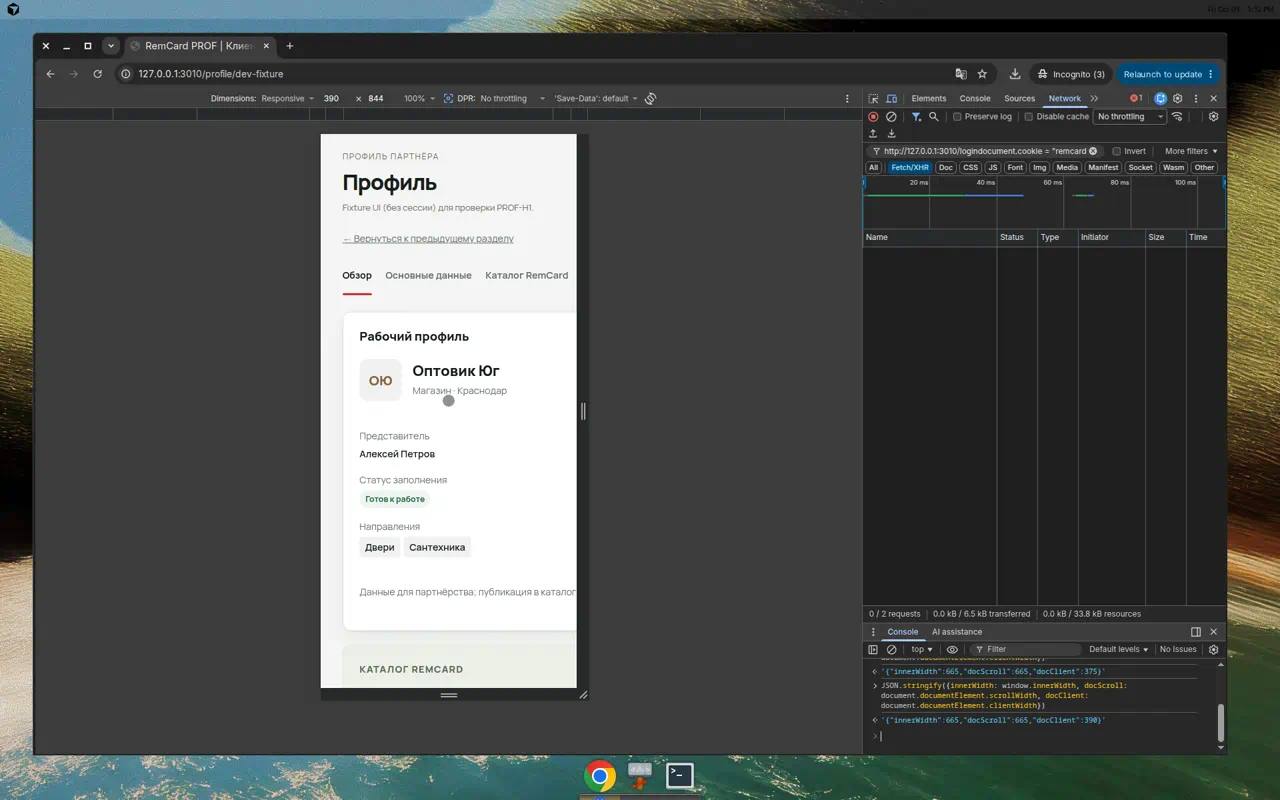
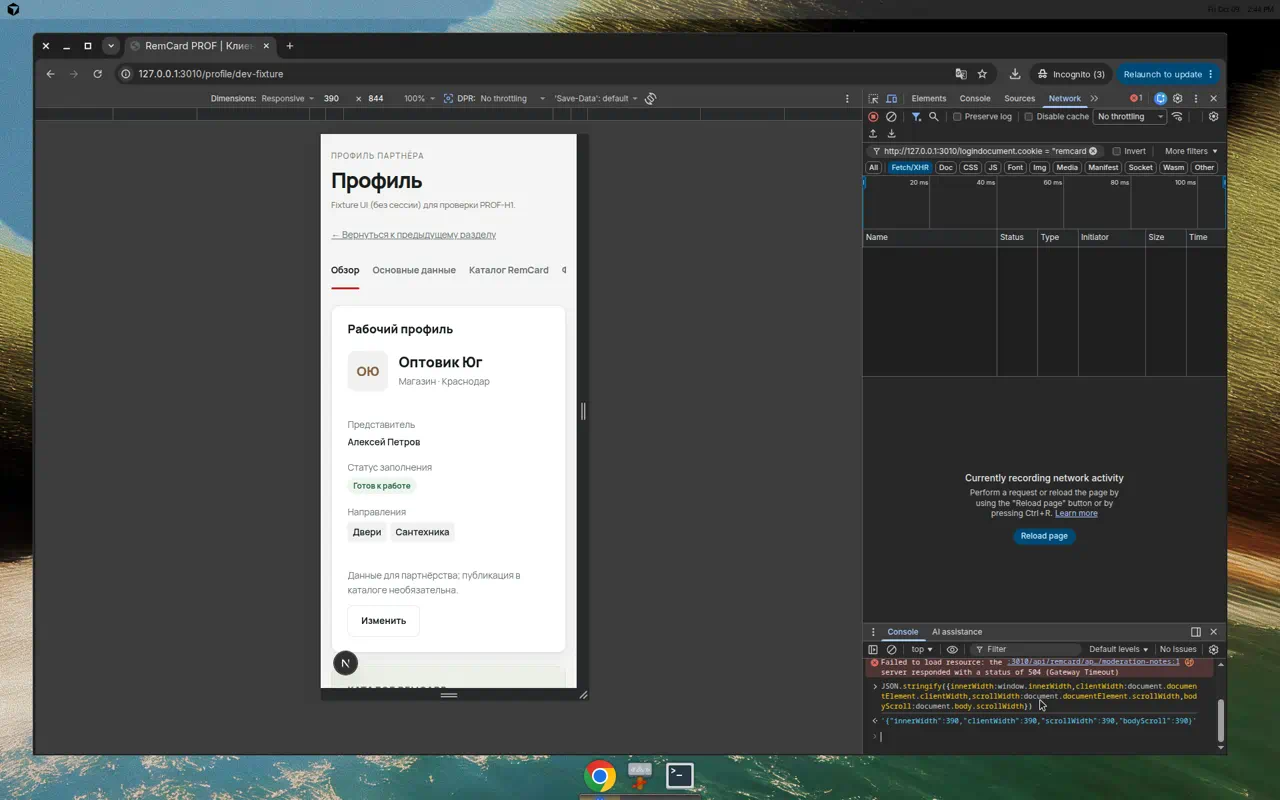
fix(prof-h1): constrain profile tab strip and grids on mobile 390
Use minmax(0,1fr) and min-width:0 on shell/nav/tabStrip so page
scrollWidth matches viewport; refresh mobile/desktop screenshots.

diff --git a/src/components/profile/ProfileEditor.module.css b/src/components/profile/ProfileEditor.module.css
@@ -1,7 +1,15 @@
 .shell {
   display: grid;
+  grid-template-columns: minmax(0, 1fr);
   gap: var(--space-6);
   min-width: 0;
+  width: 100%;
+  max-width: 100%;
+}
+
+.sectionNav {
+  min-width: 0;
+  width: 100%;
   max-width: 100%;
 }
 
@@ -10,11 +18,21 @@
   gap: var(--space-6);
   border-bottom: 1px solid var(--border);
   overflow-x: auto;
+  overflow-y: hidden;
   scrollbar-width: none;
   margin: 0;
   padding: 0;
   list-style: none;
+  width: 100%;
+  min-width: 0;
   max-width: 100%;
+  box-sizing: border-box;
+  -webkit-overflow-scrolling: touch;
+}
+
+.tabStrip > li {
+  flex: 0 0 auto;
+  min-width: 0;
 }
 
 .tabStrip::-webkit-scrollbar {
@@ -56,7 +74,7 @@
 
 .grid {
   display: grid;
-  grid-template-columns: minmax(0, 1.3fr) minmax(260px, 0.8fr);
+  grid-template-columns: minmax(0, 1.3fr) minmax(0, 0.8fr);
   gap: var(--space-6);
   align-items: start;
   min-width: 0;
@@ -144,8 +162,8 @@
 @media (max-width: 650px) {
   .tabStrip {
     gap: var(--space-5);
-    margin-inline: calc(-1 * var(--space-1));
-    padding-inline: var(--space-1);
+    padding-inline: 0;
+    margin-inline: 0;
   }
 }
 
@@ -243,7 +261,7 @@
 
 @media (max-width: 900px) {
   .grid {
-    grid-template-columns: 1fr;
+    grid-template-columns: minmax(0, 1fr);
   }
 
   .teamCheckRow {

diff --git a/src/app/profile/dev-fixture/page.tsx b/src/app/profile/dev-fixture/page.tsx
@@ -72,7 +72,16 @@ export default async function ProfileDevFixturePage(props: {
   });
 
   return (
-    <main style={{ padding: "24px 32px", maxWidth: 1310, margin: "0 auto" }}>
+    <main
+      style={{
+        boxSizing: "border-box",
+        width: "100%",
+        maxWidth: 1310,
+        minWidth: 0,
+        margin: "0 auto",
+        padding: "24px clamp(16px, 4vw, 32px)",
+      }}
+    >
       <header style={{ marginBottom: 24 }}>
         <p style={{ fontSize: 12, letterSpacing: "0.12em", textTransform: "uppercase", color: "#6c706a" }}>
           Профиль партнёра

diff --git a/src/components/profile/ProfileOverviewSection.module.css b/src/components/profile/ProfileOverviewSection.module.css
@@ -1,8 +1,10 @@
 .grid {
   display: grid;
-  grid-template-columns: minmax(0, 1.52fr) minmax(260px, 1fr);
+  grid-template-columns: minmax(0, 1.52fr) minmax(0, 1fr);
   gap: var(--space-5);
   min-width: 0;
+  width: 100%;
+  max-width: 100%;
 }
 
 .identityPanel {
@@ -245,7 +247,7 @@
 
 @media (max-width: 900px) {
   .grid {
-    grid-template-columns: 1fr;
+    grid-template-columns: minmax(0, 1fr);
   }
 }
 

diff --git a/src/components/profile/ProfileEditor.tsx b/src/components/profile/ProfileEditor.tsx
@@ -305,7 +305,7 @@ export function ProfileEditor({
         </p>
       ) : null}
 
-      <nav aria-label="Разделы профиля">
+      <nav className={styles.sectionNav} aria-label="Разделы профиля">
         <ul className={styles.tabStrip} role="tablist">
           {PROFILE_SECTION_NAV.map((item) => (
             <li key={item.id} role="presentation">

diff --git a/src/components/layout/AppShell.module.css b/src/components/layout/AppShell.module.css
@@ -167,9 +167,12 @@
 
 .content {
   width: min(var(--content-max), 100%);
+  min-width: 0;
+  max-width: 100%;
   margin: 0 auto;
   padding: var(--space-8);
   flex: 1;
+  box-sizing: border-box;
 }
 
 .mobileNav {

diff --git a/src/components/ui/PageHeading.module.css b/src/components/ui/PageHeading.module.css
@@ -1,5 +1,7 @@
 .heading {
   margin-bottom: var(--space-8);
+  min-width: 0;
+  max-width: 100%;
 }
 
 .eyebrow {

diff --git a/docs/PROF-H-PROGRESS.md b/docs/PROF-H-PROGRESS.md
@@ -1,67 +1,60 @@
-# PROF-H1 — progress (fix-pass)
+# PROF-H1 — progress
 
 ## Git
 
 | | SHA | Branch |
 |---|---|---|
 | Base | `bb60c60` | `origin/release/prof-v1-20261007` |
-| Prior HEAD | `1f5df46` | `feat/prof-h-profile-redesign` (initial H1) |
-| HEAD | _(after fix-pass push)_ | `feat/prof-h-profile-redesign` |
+| HEAD | _(see latest push)_ | `feat/prof-h-profile-redesign` |
 
-## Fix-pass (приёмка H1)
+## Mobile overflow fix (390×844)
 
-| # | Тема | Изменение |
-|---|---|---|
-| 1 | Dirty basics | `profile-draft-sync`: `initial` rerender не затирает форму; смена `user.id` сбрасывает; после save — `applyProfile` |
-| 2 | History | `router.push` при смене вкладки; `searchParams` → `activeSection` (Back/Forward/reload) |
-| 3 | Обзор | Только сохранённый профиль; баннер несохранённых правок; `master-direction-label` для trade + L1 |
-| 4 | Счётчики | SOLO: ошибка `/api/pro/employees` ≠ 0; нет fallback на `organization.branchCount` при 403/ошибке |
-| 5 | Тесты | Vitest: `profile-sections`, `profile-draft-sync`, `master-direction-label`, `profile-overview-display`, `ProfileOverviewSection` |
-| 6 | Скриншоты | Fixture + `DEV_FIXTURE_EMPLOYEES_OVERVIEW` (5 сотрудников, 3 филиала); 1440/390 |
+**Причина:** flex-полоса вкладок и grid-потомки с `min-width: auto` раздували intrinsic width (~634px) → `documentElement.scrollWidth` > viewport.
 
-Backend, API-контракты, permissions, catalog lifecycle **не менялись**.
+**Исправление (CSS only):**
+- `ProfileEditor`: `.shell` → `grid-template-columns: minmax(0,1fr)`; `.sectionNav` + `.tabStrip` → `width:100%`, `min-width:0`; вкладки scroll только в `.tabStrip`
+- Grid колонки: `minmax(0, …)` вместо фиксированных min 260px
+- `ProfileOverviewSection.grid`: `minmax(0,1fr)` на брейкпоинтах
+- `AppShell.content`, `PageHeading`: `min-width:0` для цепочки кабинета
+- Dev-fixture `main`: `width:100%`, `min-width:0`, responsive padding
 
-## Reuse map (кратко)
+**Метрики после fix (fixture UI, viewport 390×844):**
 
-| Источник | H1 |
-|---|---|
-| `ProfileEditor` + разделы | Каркас, dirty-sync, push-навигация |
-| `profile-draft-sync` | Snapshot сохранённого vs форма |
-| `profile-overview-display` | Обзор только из `ProProfileResponse` |
-| `employees-overview` + `/api/pro/employees` | Счётчики в scope (fixture на dev-fixture) |
+| Страница | innerWidth | clientWidth | scrollWidth | bodyScroll |
+|---|---:|---:|---:|---:|
+| Обзор | 390 | 390 | 390 | 390 |
+| Основные данные | 390 | 390 | 390 | 390 |
+
+Раннее утверждение «overflow отсутствует» только по `clientWidth` было **неверным** (было `scrollWidth` ≈ 666 при `clientWidth` 390). Сейчас **scrollWidth = clientWidth = 390**.
+
+## Fix-pass (ранее)
+
+Dirty basics, `router.push` + history, обзор по saved profile, счётчики SOLO/403, Vitest 66 + proxy 228.
+
+Backend, API, permissions, moderation lifecycle **не менялись**.
 
 ## Проверки (факт)
 
 | Команда | Результат |
 |---|---|
-| `npm run test:proxy` | PASS (228 tests) |
-| `npm run test:component` | PASS (66 tests, incl. `profile-sections.test.ts` ×6) |
-| `npm run lint` | PASS (pre-existing `AuthFlow` hook warning) |
-| `npx tsc --noEmit` | PASS (after clean `.next`) |
-| `NODE_ENV=production npm run build` | PASS (exit 0) |
+| `npm run test` | PASS (228 proxy + 66 component) |
+| `npm run lint` | PASS (warning `AuthFlow.tsx`) |
+| `NODE_ENV=production npm run build` | PASS |
 
-### Регрессии (component)
-
-- Rerender `initial` + dirty имя → значение сохраняется
-- `router.push` на смене вкладки; sync из `searchParams`
-- Обзор: org title, MASTER labels, incomplete ≠ «Готов к работе»
-- Overview: 403 без branchCount 99; SOLO 500 → retry; manager scoped count
-
-## Browser (fixture UI, не authenticated E2E)
+## Browser screenshots (fixture UI)
 
 | Файл | Viewport |
 |---|---|
 | `docs/screenshots/prof-h1-overview-1440.png` | 1440×900 |
 | `docs/screenshots/prof-h1-basics-1440.png` | 1440×900 |
 | `docs/screenshots/prof-h1-overview-390.png` | 390×844 |
-
-Overflow (390): `documentElement.clientWidth` = 390, визуально без page horizontal scroll; вкладки прокручиваются в полосе.
+| `docs/screenshots/prof-h1-basics-390.png` | 390×844 |
 
 ## NOT VERIFIED
 
-- Real-auth E2E на стенде с backend
-- PROF-G bell (не в release base)
+- Authenticated `/profile` в CabinetShell (метрики overflow; CSS цепочка `AppShell.content` обновлена)
+- Real-auth E2E на стенде
 
 ## H2
 
-Единые справочники / visibility / PATCH — отдельное задание после приёмки H1.
+Не начат.
